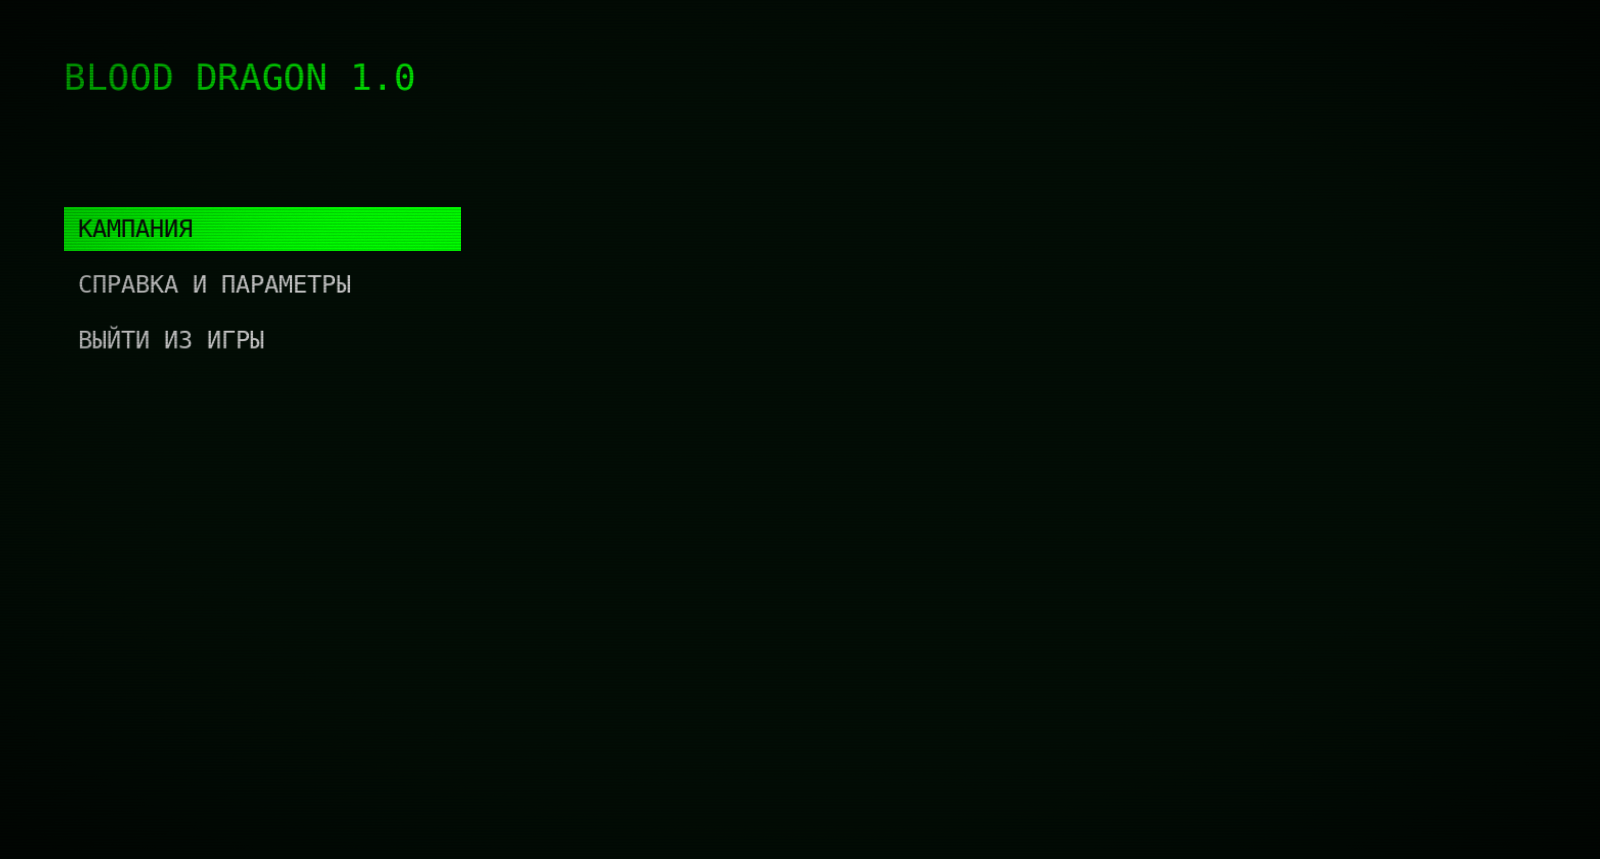
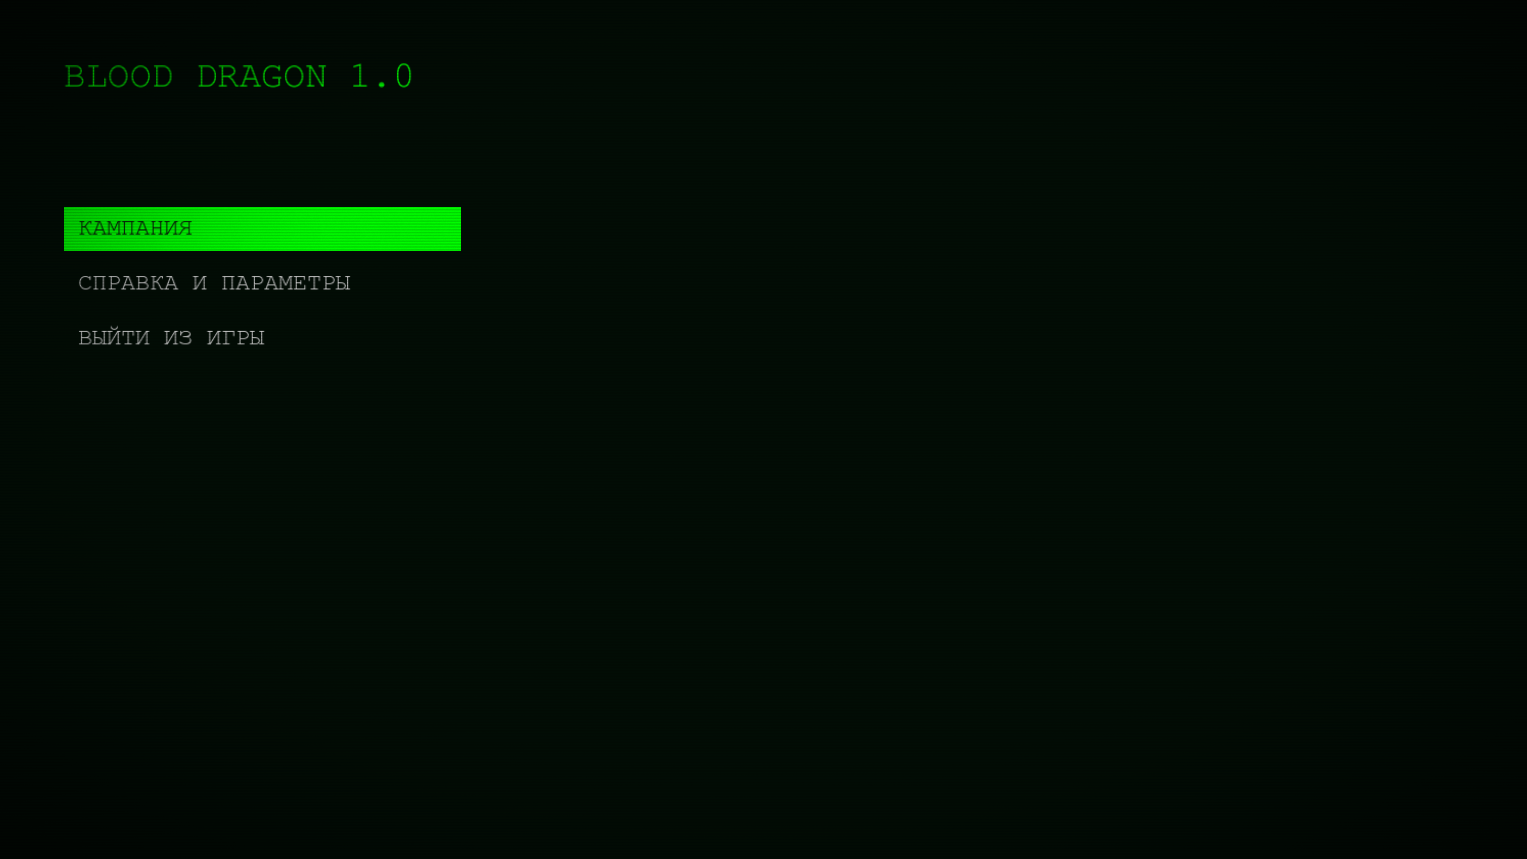
Retarget Godot 4.8-dev2 and recapture live screenshots
Match the local Godot_v4.8-dev2_mono editor, bump Godot.NET.Sdk,
and replace README shots with captures from a running 1920x1080
session (settings now includes the language category).

diff --git a/scenes/settings_menu/categories/CreditsSettingsPanel.cs b/scenes/settings_menu/categories/CreditsSettingsPanel.cs
@@ -8,7 +8,7 @@ namespace BloodDragon
                 "[b]BLOOD DRAGON[/b]\n"
               + "Версия: v1.0.0\n"
               + "Разработчик: open-source\n"
-              + "Движок: Godot 4.7 .NET\n"
+              + "Движок: Godot 4.8-dev2 .NET\n"
               + "Год выпуска: 2026\n\n"
               + "[b]ЛИЦЕНЗИИ[/b]\nGodot Engine (MIT)\nЭтот проект (MIT)\n\n"
               + "[b]КОНТАКТЫ[/b]\nРепозиторий на GitHub");

diff --git a/scripts/menus/MainMenu.cs b/scripts/menus/MainMenu.cs
@@ -95,7 +95,7 @@ namespace BloodDragon
             var tween = CreateTween().SetParallel();
             tween.TweenProperty(this, "modulate:a", 1.0f, 0.3f);
 
-            // Godot 4.7: offset transforms survive VBoxContainer layout, so the
+            // Offset transforms survive VBoxContainer layout, so the
             // slide-in is visual-only and does not steal hover hitboxes.
             float delay = 0f;
             foreach (var b in buttons)

diff --git a/README.md b/README.md
@@ -2,7 +2,7 @@
 
 Система главного меню и экрана **«Справка и параметры»** в стиле Far Cry 3: Blood Dragon.
 
-Движок: **Godot 4.7 .NET** (рекомендуется 4.7.2). Язык: **C# / .NET 8**. Автор репозитория: [assassins377](https://github.com/assassins377).
+Движок: **Godot 4.8-dev2 .NET**. Язык: **C# / .NET 8**. Автор репозитория: [assassins377](https://github.com/assassins377).
 
 Это не полная игра, а рабочий UI-каркас: навигация, сохранение настроек, CRT-оверлей, звук меню и заглушка 3D-уровня, чтобы сразу проверить графику и управление.
 
@@ -56,18 +56,18 @@
 | Руководство | статичный текст |
 | Титры | версия, движок, лицензии |
 
-Навигация: мышь, стрелки / Enter / Esc, геймпад. Геймпад игнорируется, пока окно не в фокусе (настройка Godot 4.7).
+Навигация: мышь, стрелки / Enter / Esc, геймпад. Геймпад игнорируется, пока окно не в фокусе.
 
-Кнопки главного меню заезжают слева через **Control offset transforms** (Godot 4.7): анимация визуальная, hitbox остаётся на месте layout.
+Кнопки главного меню заезжают слева через **Control offset transforms**: анимация визуальная, hitbox остаётся на месте layout.
 
 ---
 
 ## Требования и запуск
 
-- Godot **4.7 .NET** (не standard / GDScript-only)
+- Godot **4.8-dev2 .NET** (сборка `Godot_v4.8-dev2_mono_linux`)
 - **.NET 8** SDK
 
-1. Клонируйте репозиторий и откройте папку в Godot 4.7 (.NET).
+1. Клонируйте репозиторий и откройте папку в Godot 4.8-dev2 (.NET).
 2. Дождитесь восстановления NuGet и сборки C#.
 3. Запустите проект: главная сцена — `scenes/main_menu/MainMenu.tscn`.
 

diff --git a/game_menu_specification.md b/game_menu_specification.md
@@ -1,5 +1,5 @@
 # Спецификация системы меню для игры
-**Движок:** Godot 4.7 (.NET / C#)  
+**Движок:** Godot 4.8-dev2 (.NET / C#)  
 **Язык:** C# (.NET 8)  
 **Версия документа:** 1.3  
 **Дата создания:** 2026
@@ -244,7 +244,7 @@
 | Название игры | BLOOD DRAGON |
 | Версия | v1.0.0 |
 | Разработчик | [Имя студии] |
-| Движок | Godot 4.7 .NET |
+| Движок | Godot 4.8-dev2 .NET |
 | Год выпуска | 2026 |
 | Лицензии | Список open-source компонентов |
 | Контакты | Сайт, email, соцсети |
@@ -351,7 +351,7 @@ font="standard"
 
 | Параметр | Значение |
 |----------|----------|
-| Godot версия | 4.7 .NET |
+| Godot версия | 4.8-dev2 .NET |
 | .NET версия | .NET 8 |
 | Язык | C# 12 |
 | Рендер по умолчанию | Forward+ (Vulkan) |
